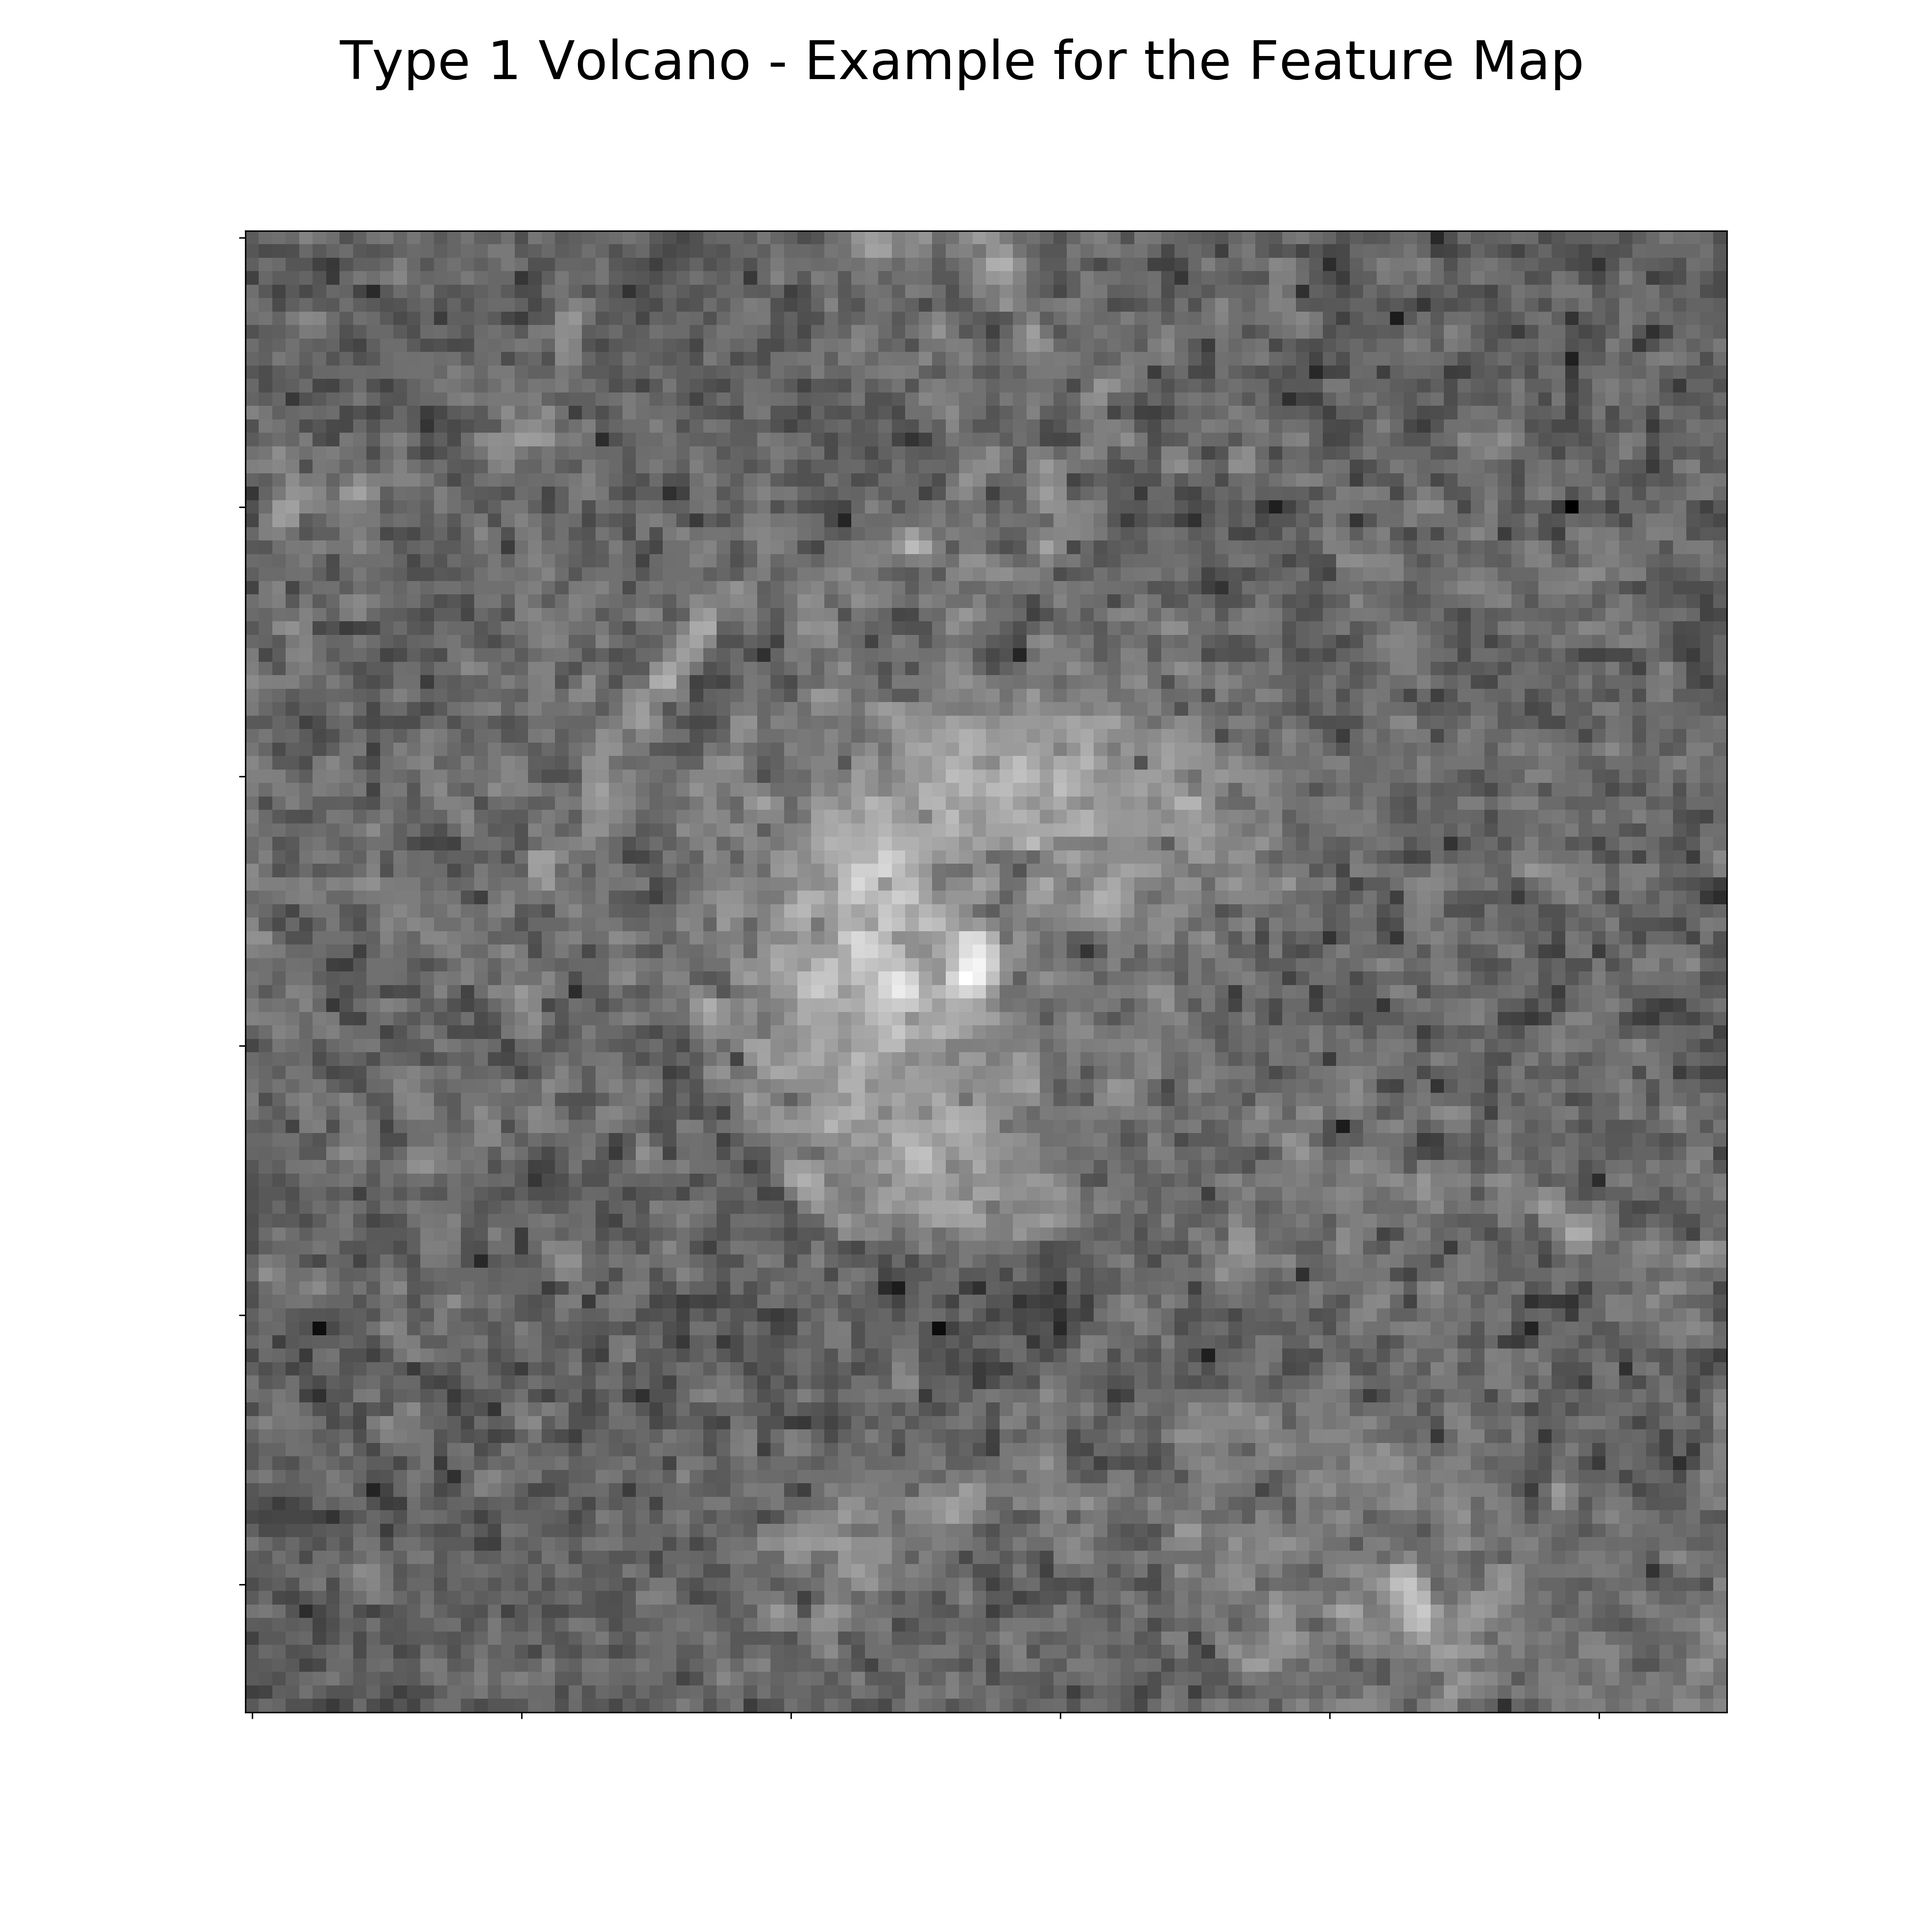
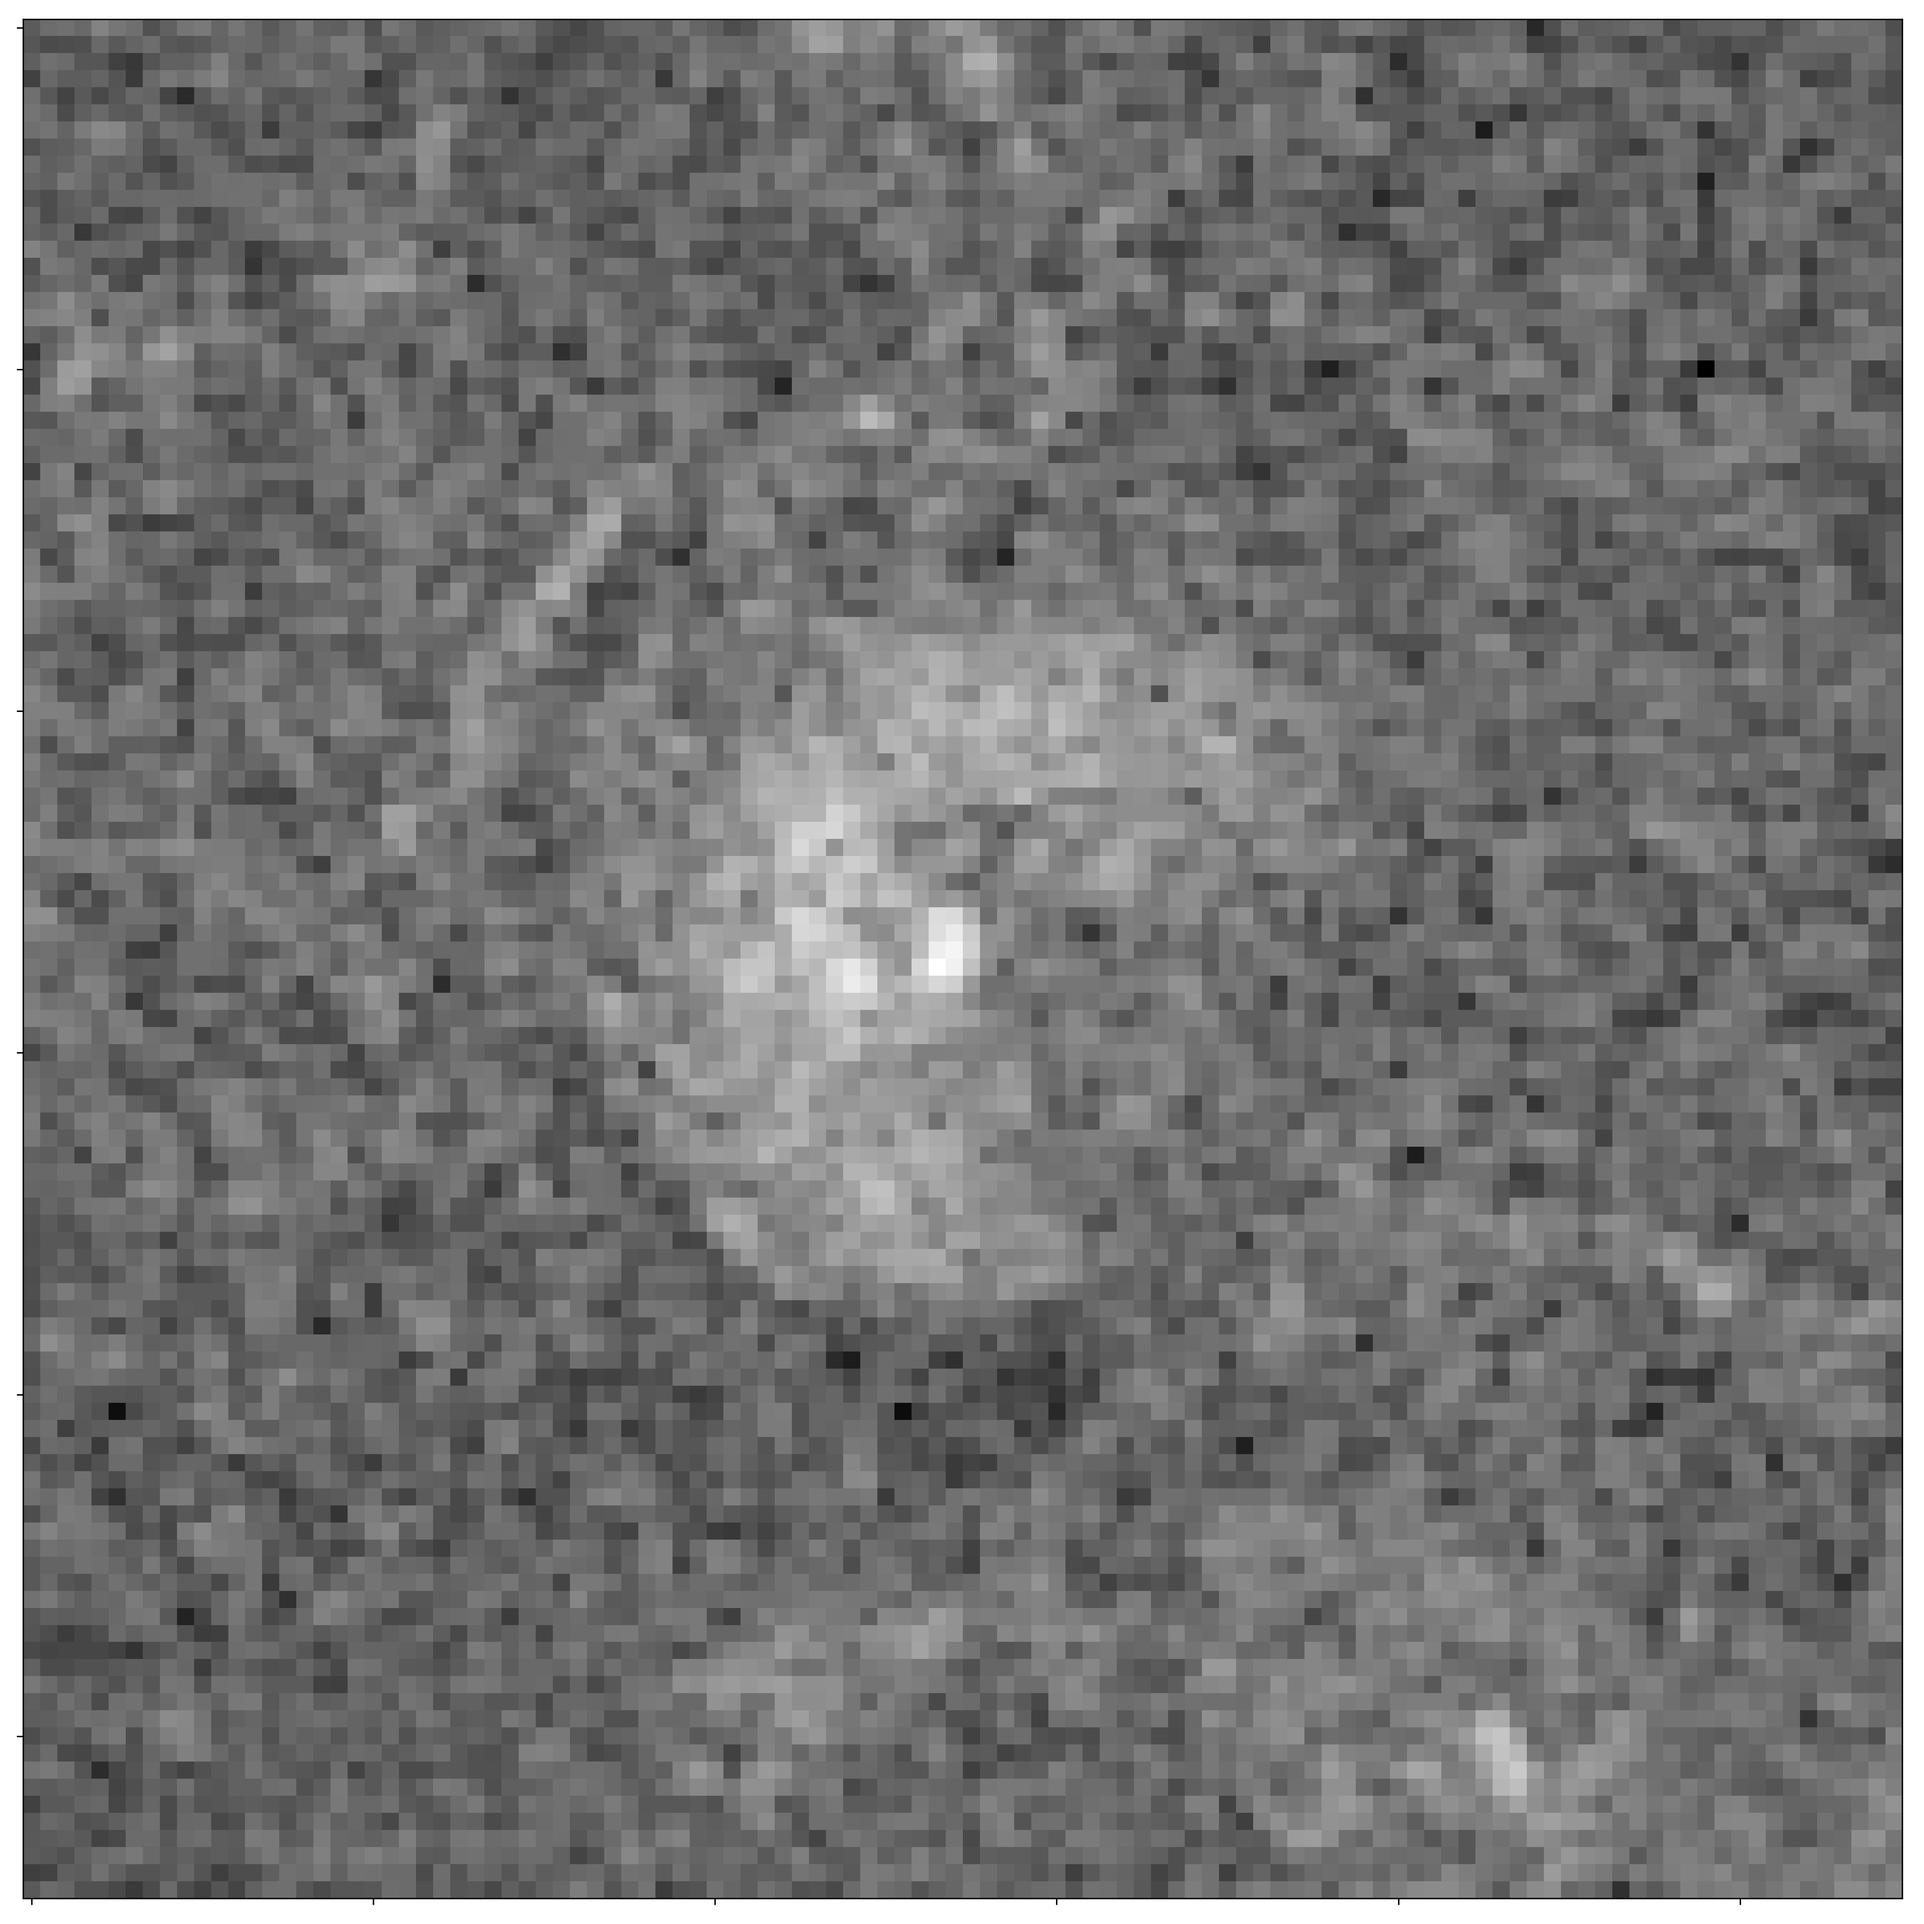
plotsssss

diff --git a/feature_extraction_cnn.py b/feature_extraction_cnn.py
@@ -13,22 +13,20 @@ from data_loading_functions import load_cleaned_volcano_data, load_augmented_dat
 from CNN_functions import normalize_image_data, build_model_CNN_v1
 from sklearn.model_selection import train_test_split
 import os
+from matplotlib import gridspec
 os.environ['TF_CPP_MIN_LOG_LEVEL'] = '2'
 
-# Import data without the corrupted images
+# Import data wuthout the corrupted images and also the augmented data
 img_data, lbl_data = load_cleaned_volcano_data()
 img_aug, lbl_aug = load_augmented_data()
 
 # Do some cuts
-img_non_volcano = img_data[lbl_data['Volcano?'] == 0]
-lbl_non_volcano = lbl_data[lbl_data['Volcano?'] == 0]
-img_data = pd.concat([img_non_volcano, img_aug], ignore_index=True)
-img_lbl = pd.concat([lbl_non_volcano, lbl_aug], ignore_index=True)
+img_data = pd.concat([img_data, img_aug], ignore_index=True)
+img_lbl = pd.concat([lbl_data, lbl_aug], ignore_index=True)
 print('Augmented data loaded')
 
-
 # Normalize and convert to numpy
-img_data = normalize_image_data(img_data)
+img_data_normalized = normalize_image_data(img_data)
 print('Data normalized')
 
 # Import the previous model that was obtained from the training with the
@@ -42,33 +40,51 @@ for i in range(len(model.layers)):
         continue
     print(i , layer.name , layer.output.shape)
 
-model_viz = Model(inputs=model.inputs , outputs=model.layers[1].output)
+model_viz = Model(inputs=model.inputs , outputs=model.layers[0].output)
 
 # Select normalized image
-image = img_data[7945]
+image = img_data_normalized[8]
 image = np.expand_dims(image, axis=0) # Need to expand dimensions so that the
 # input looks like something from within the network
 
-# Image of which the feature map will be computed
-fig, ax = plt.subplots(1, 1, figsize=(15,15), tight_layout=False)
-plt.suptitle("Type 1 Volcano - Example for the Feature Map", fontsize=30)
+# Image of which the feature map will be computed ##############################
+fig, ax = plt.subplots(1, 1, figsize=(15,15), tight_layout=True)
 ax.imshow(image.reshape(110, 110), cmap='gray')
 ax.set_xticklabels([])
 ax.set_yticklabels([])
-plt.savefig("figures/image_of_featuremap_augmented_v2.jpg", dpi=300)
+plt.savefig("figures/image_of_featuremap.jpg", dpi=300)
 
-# Compute and plot the feature map for one of the images
+# Compute and plot the feature map for one of the images #######################
 # from the second convo layer
-features = model_viz.predict(image).reshape(54, 54, 32)
-fig, ax = plt.subplots(6, 4, figsize=(20,15), tight_layout=False)
-plt.suptitle("Feature map for a type 1 volcano", fontsize=30)
+features = model_viz.predict(image).reshape(model.layers[0].output_shape[1],
+                                            model.layers[0].output_shape[2],
+                                            model.layers[0].output_shape[3])
+
+nrow = 6
+ncol = 4
+fig = plt.figure(figsize=(ncol+1, nrow+1))
+gs = gridspec.GridSpec(nrow, ncol,
+         wspace=0.0, hspace=0.0,
+         top=1.-0.5/(nrow+1), bottom=0.5/(nrow+1),
+         left=0.5/(ncol+1), right=1-0.5/(ncol+1))
 z = 0
-for j in range(4):
-    for i in range(6):
-        ax[i, j].imshow(features[:,:,z],
-         cmap='gray') #, vmin=min(features[:,:,i]), vmax=max(features[:,:,i]))
-        ax[i, j].set_xticklabels([])
-        ax[i, j].set_yticklabels([])
+for i in range(nrow):
+    for j in range(ncol):
+        ax = plt.subplot(gs[i,j])
+        ax.imshow(features[:,:,z], cmap='gray')
+        ax.set_xticklabels([])
+        ax.set_yticklabels([])
         z += 1
 plt.savefig("figures/feature_map_augmented_v2.jpg", dpi=300)
-plt.close()
+
+# Plot the convolutional filters corresponding to 1st layer ####################
+weights = model.layers[0].get_weights()[0][:,:,0,:]
+z = 0
+for i in range(nrow):
+    for j in range(ncol):
+        ax = plt.subplot(gs[i,j])
+        ax.imshow(weights[:,:,z], cmap='gray')
+        ax.set_xticklabels([])
+        ax.set_yticklabels([])
+        z += 1
+plt.savefig("figures/convolutional_filters_augmented_v2.jpg", dpi=300)

diff --git a/classical_algorithm_models.py b/classical_algorithm_models.py
@@ -43,7 +43,7 @@ print('Train/test split done')
 ########################## PARAMETER SPACE EXPLORATION #########################
 ################################################################################
 
-### Random forest classifier ##
+### Linear support vector classifier ##
 lsvc_param_dict = {
     'C': [[0.001], [0.01], [0.1], [1], [10]],
     'class_weight': [[None], ['balanced']],
@@ -79,7 +79,6 @@ rfc_opt = (
     )
 pd.DataFrame(rfc_opt.cv_results_).to_csv('rfc_gridexploration_cv.csv',
                                                                     index=False)
-
 
 ################################################################################
 ######################## CREATE THE FINAL MODELS - TEST ########################
